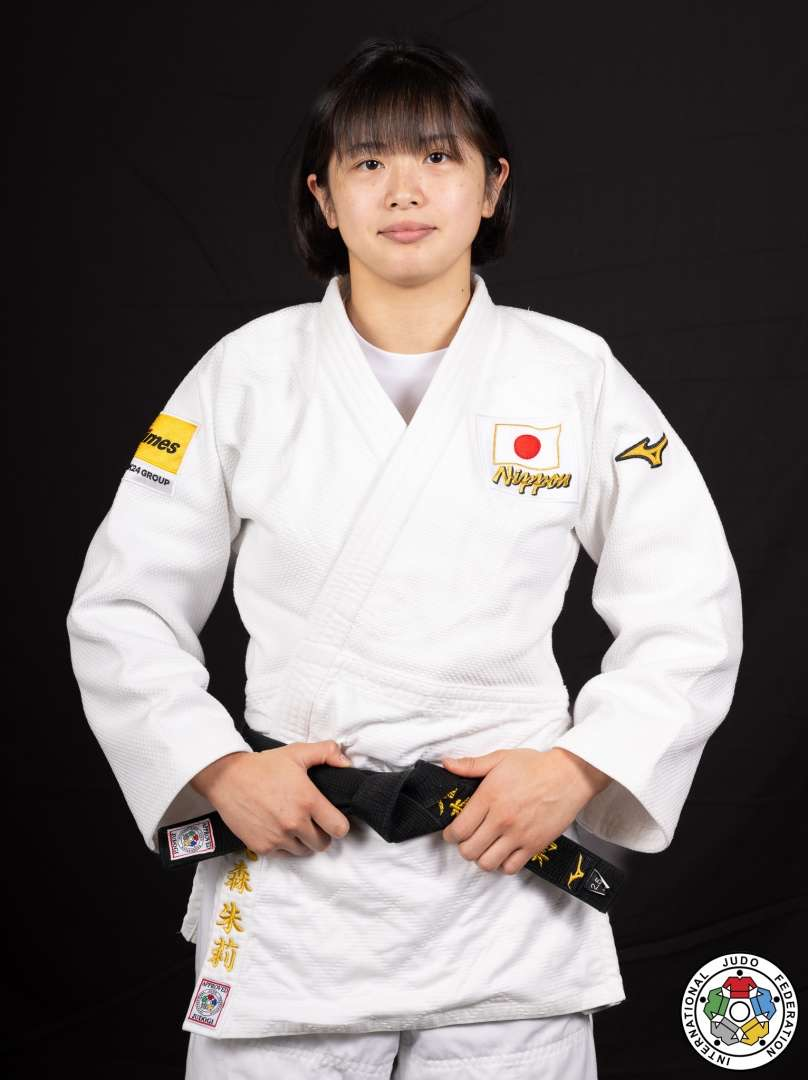
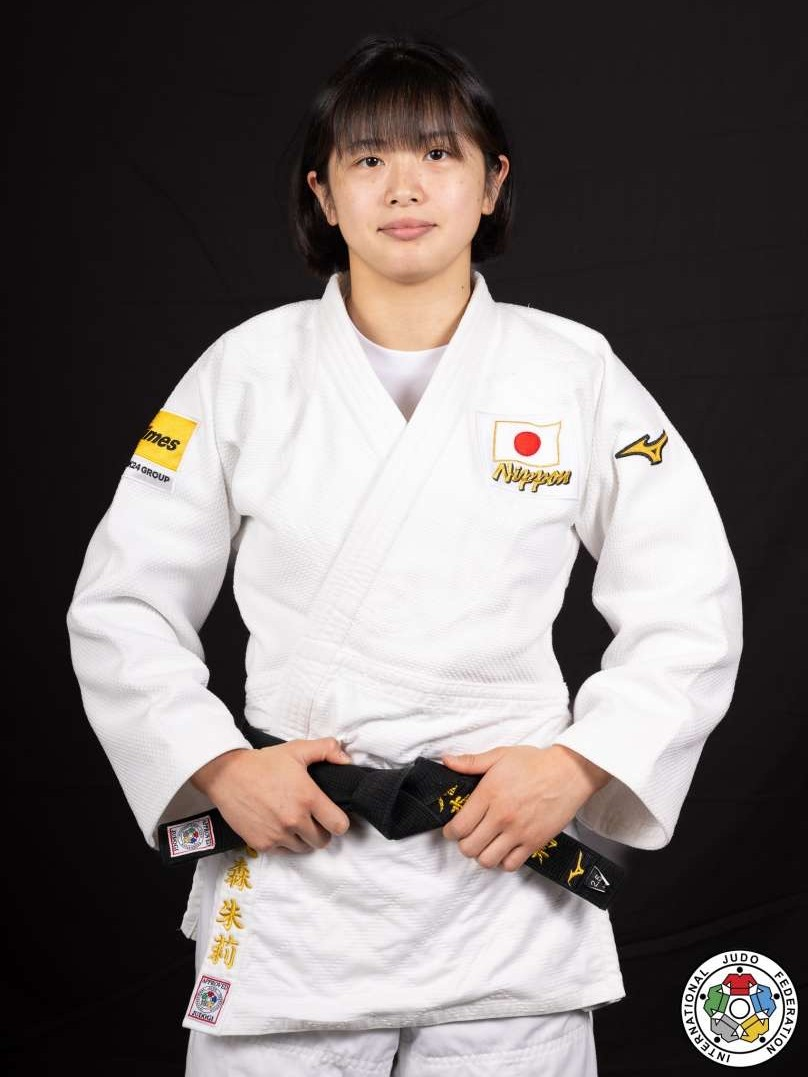
写真サイズ変更

diff --git a/code/index/index.html b/code/index/index.html
@@ -206,7 +206,7 @@
                     <p class="teacher-name">
                         <ruby>
                             大森　剛
-                            <rt>おおもり　？</rt>
+                            <rt>おおもり　つよし</rt>
                         </ruby><br>
                         （OB大森きすみ・あかりの父）
                     </p>
@@ -243,7 +243,7 @@
                     <p class="teacher-name">
                         <ruby>
                             正木　幸彦
-                            <rt>まさき　？</rt>
+                            <rt>まさき　ゆきひこ</rt>
                         </ruby><br><br>
                     </p>
                     <p class="teacher-career">
@@ -280,7 +280,7 @@
                     <p class="teacher-name">
                         <ruby>
                             小山　勇輝
-                            <rt>こばやし　ゆうき</rt>
+                            <rt>こやま　ゆうき</rt>
                         </ruby><br><br>
                     </p>
                     <p class="teacher-career">

diff --git a/code/index/index.css b/code/index/index.css
@@ -546,17 +546,10 @@ body {
     /* 写真サイズを統一 */
     .ob-photo img {
         width: 100%;
-        height: 500px; /* ←高さ固定 */
+        aspect-ratio: 3 / 4; /* ← 好きな比率に変更OK */
         object-fit: cover; /* 自動トリミング */
         border-radius: 12px;
     }
-
-/* スマホ */
-@media (max-width: 768px) {
-    .ob-photo img {
-        width: 100%;
-    }
-}
 
 .ob-name {
     margin-top: 8px;
@@ -590,17 +583,10 @@ body {
     /* PC */
     .teacher-photo img {
         width: 100%;
-        height: 500px;
-        object-fit: cover;
+        aspect-ratio: 3 / 4; /* ← 好きな比率に変更OK */
+        object-fit: cover; /* 自動トリミング */
         border-radius: 12px;
     }
-
-/* スマホ */
-@media (max-width: 600px) {
-    .teacher-photo img {
-        width: 100%;
-    }
-}
 
 .teacher-name {
     margin-top: 8px;
